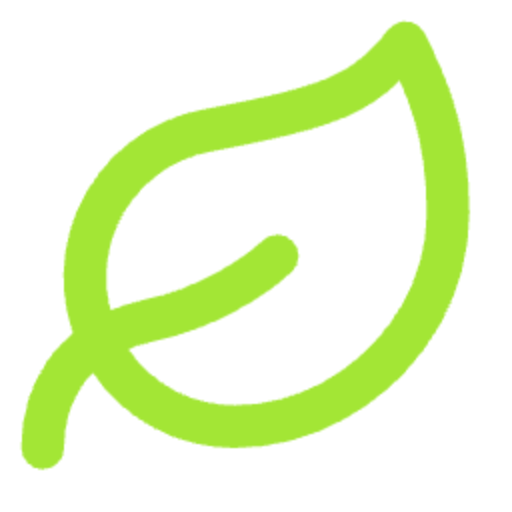
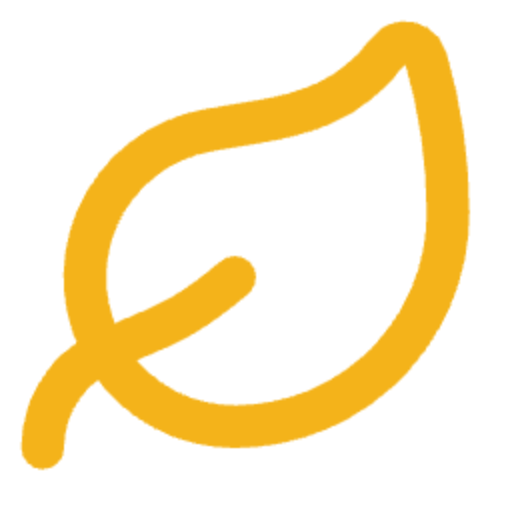
updated the assets 🚀

Changed region(s): [[0.0312, 0.0312, 0.9375, 0.9375]]

diff --git a/app/page.tsx b/app/page.tsx
@@ -2,7 +2,6 @@ import { Metadata } from 'next';
 import { HomeClient } from './HomeClient';
 
 export const metadata: Metadata = {
-  title: "AI Nutritionist | Hyper-Personalized Meal Plans",
   description: "Get a 7-day meal plan tailored to your unique body metrics, allergies, and goals. Powered by advanced AI for precision nutrition.",
   alternates: {
     canonical: "https://wellnourishai.ashutoshswamy.in",
@@ -10,32 +9,63 @@ export const metadata: Metadata = {
 };
 
 export default function Home() {
+  const url = "https://wellnourishai.ashutoshswamy.in";
   const jsonLd = {
     "@context": "https://schema.org",
-    "@type": "WebApplication",
-    "name": "WellNourish AI",
-    "url": "https://wellnourishai.ashutoshswamy.in",
-    "description": "AI-powered personalized nutritionist and meal planner.",
-    "applicationCategory": "HealthApplication",
-    "operatingSystem": "All",
-    "offers": {
-      "@type": "Offer",
-      "price": "0",
-      "priceCurrency": "USD"
-    },
-    "featureList": [
-      "7-Day Personalized Meal Plans",
-      "AI Macro Calculation",
-      "Allergy-Conscious Recipes",
-      "Auto-Generated Grocery Lists"
-    ]
+    "@graph": [
+      {
+        "@type": "WebSite",
+        "@id": `${url}/#website`,
+        "name": "WellNourish AI",
+        "url": url,
+        "publisher": { "@id": `${url}/#org` },
+      },
+      {
+        "@type": "Organization",
+        "@id": `${url}/#org`,
+        "name": "WellNourish AI",
+        "url": url,
+        "logo": `${url}/android-chrome-512x512.png`,
+        "founder": {
+          "@type": "Person",
+          "name": "Ashutosh Swamy",
+          "url": "https://ashutoshswamy.in",
+          "sameAs": [
+            "https://github.com/ashutoshswamy",
+            "https://linkedin.com/in/ashutoshswamy",
+            "https://x.com/ashutoshswamy_",
+          ],
+        },
+      },
+      {
+        "@type": "WebApplication",
+        "name": "WellNourish AI",
+        "url": url,
+        "description": "AI-powered personalized nutritionist and meal planner.",
+        "applicationCategory": "HealthApplication",
+        "operatingSystem": "All",
+        "image": `${url}/og-image.jpg`,
+        "publisher": { "@id": `${url}/#org` },
+        "offers": {
+          "@type": "Offer",
+          "price": "0",
+          "priceCurrency": "USD"
+        },
+        "featureList": [
+          "7-Day Personalized Meal Plans",
+          "AI Macro Calculation",
+          "Allergy-Conscious Recipes",
+          "Auto-Generated Grocery Lists"
+        ]
+      },
+    ],
   };
 
   return (
     <>
       <script
         type="application/ld+json"
-        dangerouslySetInnerHTML={{ __html: JSON.stringify(jsonLd) }}
+        dangerouslySetInnerHTML={{ __html: JSON.stringify(jsonLd).replace(/</g, "\\u003c") }}
       />
       <HomeClient />
     </>

diff --git a/app/layout.tsx b/app/layout.tsx
@@ -51,8 +51,8 @@ export const metadata: Metadata = {
     images: [
       {
         url: "/og-image.jpg",
-        width: 1200,
-        height: 630,
+        width: 1733,
+        height: 907,
         alt: "WellNourish AI - Personalized Nutrition",
       },
     ],
@@ -61,6 +61,7 @@ export const metadata: Metadata = {
     card: "summary_large_image",
     title: "WellNourish AI | Your Personal AI Nutritionist",
     description: "Hyper-personalized 7-day meal plans and grocery lists tailored specifically to you.",
+    creator: "@ashutoshswamy_",
     images: ["/og-image.jpg"],
   },
   robots: {
@@ -73,9 +74,6 @@ export const metadata: Metadata = {
       'max-image-preview': 'large',
       'max-snippet': -1,
     },
-  },
-  alternates: {
-    canonical: "https://wellnourishai.ashutoshswamy.in",
   },
 };
 

diff --git a/app/sitemap.ts b/app/sitemap.ts
@@ -3,18 +3,13 @@ import { MetadataRoute } from 'next';
 export default function sitemap(): MetadataRoute.Sitemap {
   const baseUrl = 'https://wellnourishai.ashutoshswamy.in';
 
-  // Core pages
-  const routes = [
-    '',
-    '/privacy',
-    '/terms',
-    '/cookies',
-  ].map((route) => ({
-    url: `${baseUrl}${route}`,
-    lastModified: new Date(),
-    changeFrequency: 'weekly' as const,
-    priority: route === '' ? 1.0 : 0.5,
-  }));
-
-  return routes;
+  // ponytail: no lastModified, a fake "now" on every crawl teaches Google to ignore it
+  return [
+    { url: baseUrl, changeFrequency: 'weekly', priority: 1 },
+    ...['/privacy', '/terms', '/cookies'].map((route) => ({
+      url: `${baseUrl}${route}`,
+      changeFrequency: 'yearly' as const,
+      priority: 0.3,
+    })),
+  ];
 }

diff --git a/app/robots.ts b/app/robots.ts
@@ -1,23 +1,10 @@
 import { MetadataRoute } from 'next';
 
+// Private pages stay crawlable so Google can see their noindex tag;
+// blocking them here would let bare URLs get indexed from links.
 export default function robots(): MetadataRoute.Robots {
   return {
-    rules: [
-      {
-        userAgent: '*',
-        allow: '/',
-        disallow: [
-          '/dashboard',
-          '/profile',
-          '/api/',
-          '/sign-in',
-          '/sign-up',
-          '/plan',
-          '/history',
-          '/shopping-list',
-        ],
-      },
-    ],
+    rules: [{ userAgent: '*', allow: '/', disallow: '/api/' }],
     sitemap: 'https://wellnourishai.ashutoshswamy.in/sitemap.xml',
   };
 }

diff --git a/app/terms/page.tsx b/app/terms/page.tsx
@@ -2,7 +2,7 @@ import { Metadata } from 'next';
 import { LegalDoc } from "@/components/global/LegalDoc";
 
 export const metadata: Metadata = {
-  title: "Terms of Service | WellNourish AI",
+  title: "Terms of Service",
   description: "Read the terms and conditions for using WellNourish AI's personalized nutrition and meal planning services.",
   alternates: {
     canonical: "https://wellnourishai.ashutoshswamy.in/terms",

diff --git a/app/privacy/page.tsx b/app/privacy/page.tsx
@@ -2,7 +2,7 @@ import { Metadata } from 'next';
 import { LegalDoc } from "@/components/global/LegalDoc";
 
 export const metadata: Metadata = {
-  title: "Privacy Policy | WellNourish AI",
+  title: "Privacy Policy",
   description: "Learn how WellNourish AI collects, uses, and protects your personal health and nutrition data.",
   alternates: {
     canonical: "https://wellnourishai.ashutoshswamy.in/privacy",

diff --git a/app/manifest.ts b/app/manifest.ts
@@ -7,8 +7,8 @@ export default function manifest(): MetadataRoute.Manifest {
     description: 'Your Personal AI Nutritionist and Meal Planner',
     start_url: '/',
     display: 'standalone',
-    background_color: '#060b06',
-    theme_color: '#a3e635',
+    background_color: '#f3f5ef',
+    theme_color: '#1e4634',
     icons: [
       {
         src: '/favicon.ico',

diff --git a/app/sign-up/[[...sign-up]]/page.tsx b/app/sign-up/[[...sign-up]]/page.tsx
@@ -2,6 +2,7 @@ import { Metadata } from "next";
 import { AuthForm } from "@/components/global/AuthForm";
 
 export const metadata: Metadata = {
+  robots: { index: false },
   title: "Sign Up",
   description: "Create an account on WellNourish AI to get your first hyper-personalized 7-day meal plan and automatic grocery shopping list.",
 };

diff --git a/app/shopping-list/page.tsx b/app/shopping-list/page.tsx
@@ -6,6 +6,7 @@ import { ShoppingListClient } from "@/components/shopping/ShoppingListClient";
 import { Metadata } from "next";
 
 export const metadata: Metadata = {
+  robots: { index: false },
   title: "Grocery Shopping List",
   description:
     "View the auto-generated grocery shopping list for your active 7-day meal plan.",

diff --git a/app/plan/page.tsx b/app/plan/page.tsx
@@ -6,6 +6,7 @@ import { PlanClient } from "@/components/plan/PlanClient";
 import { Metadata } from "next";
 
 export const metadata: Metadata = {
+  robots: { index: false },
   title: "Meal Plan Details",
   description:
     "View the detailed recipes, nutrition information, and portions for your 7-day meal plan.",

diff --git a/app/sign-in/[[...sign-in]]/page.tsx b/app/sign-in/[[...sign-in]]/page.tsx
@@ -2,6 +2,7 @@ import { Metadata } from "next";
 import { AuthForm } from "@/components/global/AuthForm";
 
 export const metadata: Metadata = {
+  robots: { index: false },
   title: "Sign In",
   description: "Sign in to WellNourish AI to access your personalized meal plans, recipes, and grocery list.",
 };

diff --git a/app/dashboard/page.tsx b/app/dashboard/page.tsx
@@ -34,6 +34,7 @@ import { GenerateButton } from "@/components/dashboard/GenerateButton";
 import { Metadata } from "next";
 
 export const metadata: Metadata = {
+  robots: { index: false },
   title: "Dashboard",
   description: "View and manage your AI-generated meal plans and health metrics.",
 };
